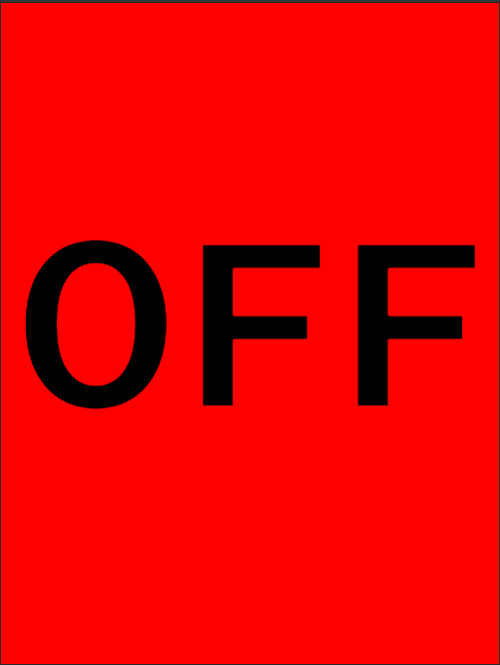
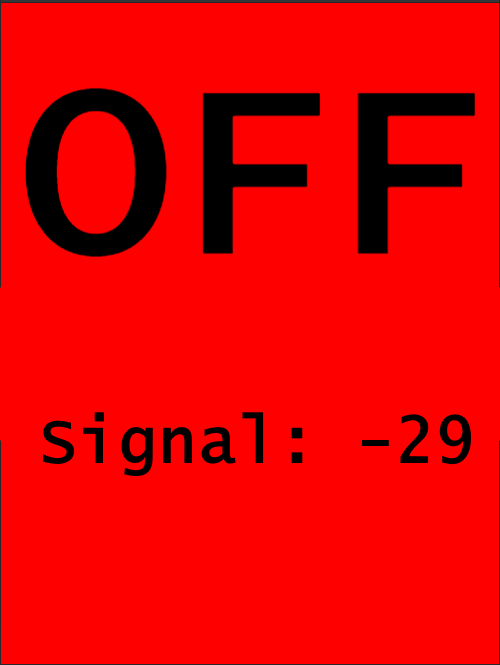
README update for addition of signal strength

diff --git a/README.md b/README.md
@@ -82,9 +82,9 @@ The client will display one of three states: On, Off, or Standby. The *standby* 
 </p>
 
 
+
 ## Project To Do
 
-* Display the Mini's WiFi signal strength, may aid in trouble shooting potential connection issues.
 * **Alexa** - modify the Node application so that Alexa can be used to operate it.
 * Create a version where the client's HTML file is served through the Node application. *Investigate the worth first.*
 
